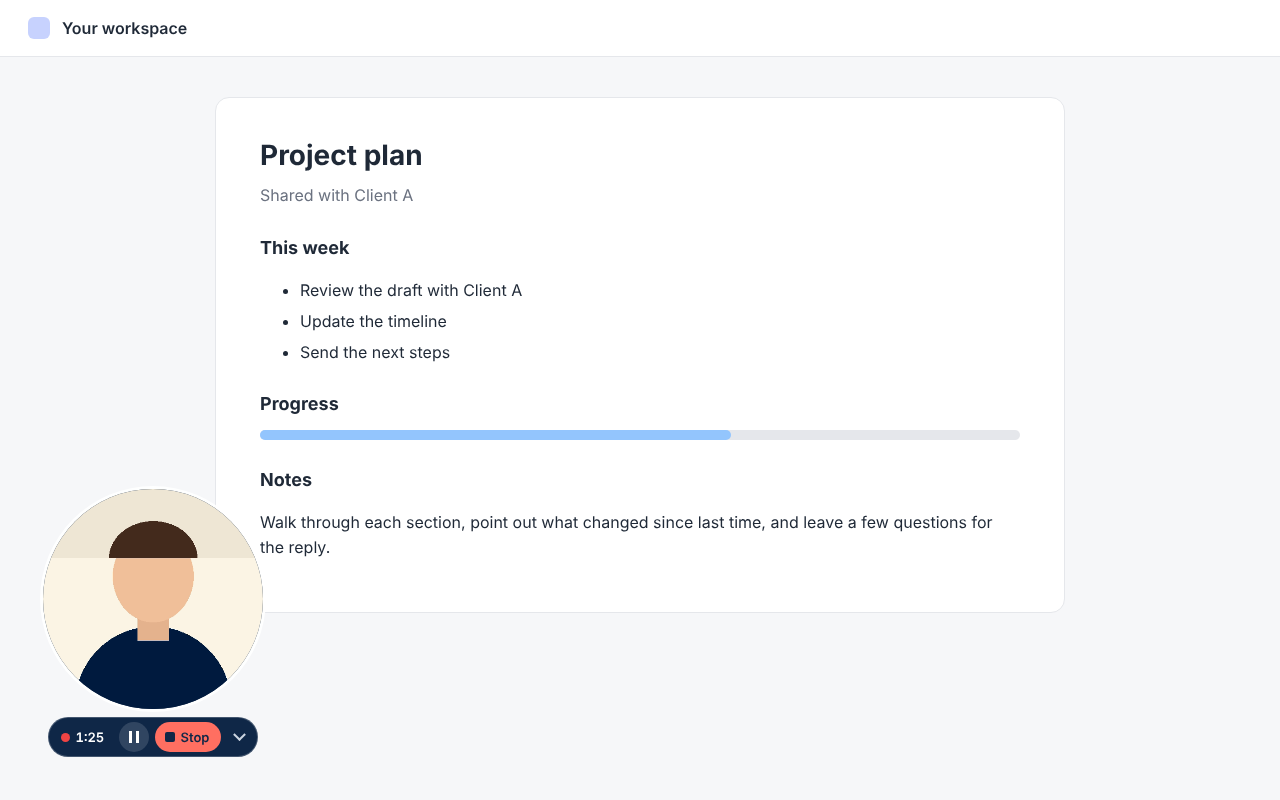
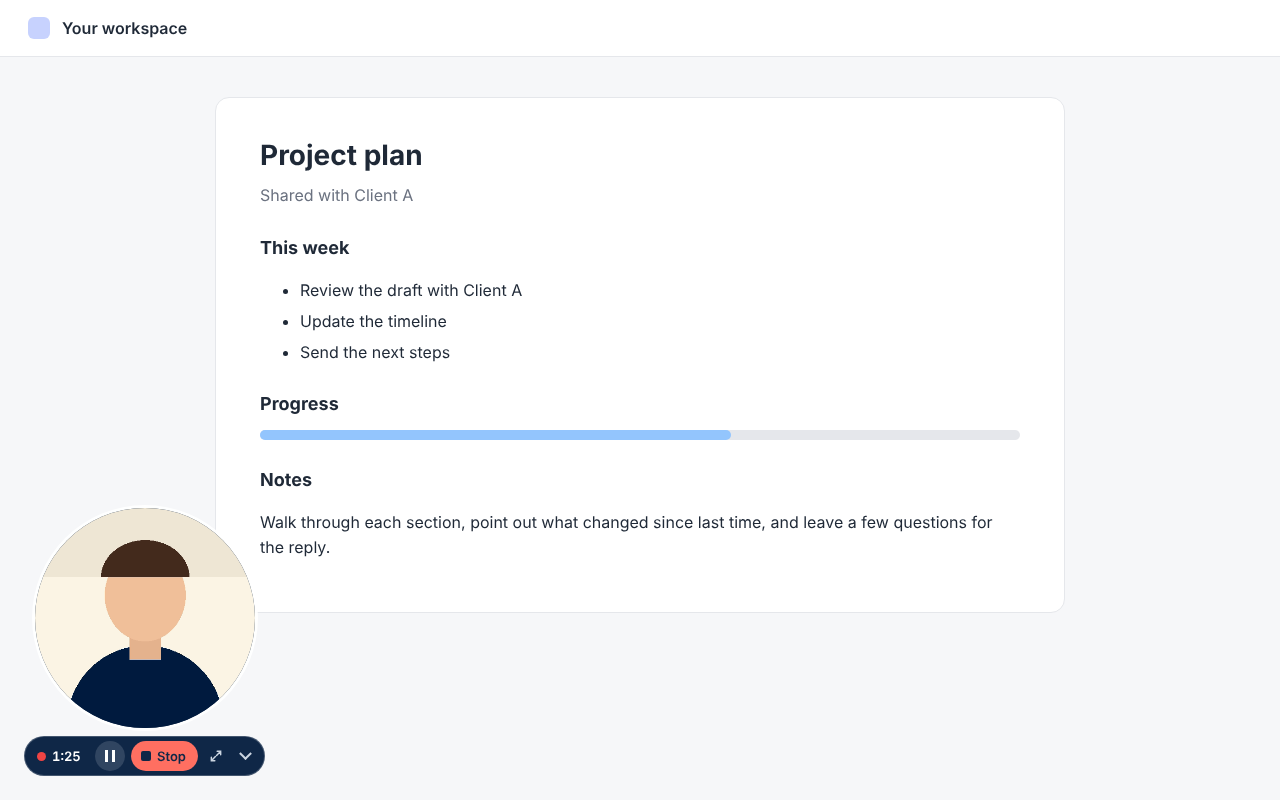
Extension 1.0.5: welcome and listing mention the size button; fresh store pictures
Claude-Session: https://claude.ai/code/session_01P4tJ6w28EeQUWxeH5NAmsb

Changed region(s): [[0.0, 0.5938, 0.2188, 0.9688]]

diff --git a/apps/extension/src/welcome.html b/apps/extension/src/welcome.html
@@ -10,7 +10,7 @@
     <main>
       <img src="icons/128.png" alt="" width="64" height="64" />
       <h1>Your camera bubble is ready</h1>
-      <p>When you record your screen with SureFrame, your camera floats in a bubble over your web pages, with Pause and Stop beside it. Drag it anywhere, and drag its corner to resize it.</p>
+      <p>When you record your screen with SureFrame, your camera floats in a bubble over your web pages, with Pause and Stop beside it. Drag it anywhere, and make it bigger or smaller with the size button on its bar.</p>
       <p>Allow your camera once here, so the bubble never has to ask on each website.</p>
       <button id="allow" type="button">Allow camera</button>
       <p id="status" class="status" role="status"></p>

diff --git a/apps/extension/STORE.md b/apps/extension/STORE.md
@@ -16,10 +16,10 @@ Your camera in a floating bubble, with Pause and Stop, on any web page while you
 Record your screen with SureFrame and keep your camera and controls with you on every tab.
 
 While you record your screen at sureframe.app, the SureFrame extension shows:
-- your camera in a round bubble over the web pages you visit, which you can drag anywhere and resize from its corner;
+- your camera in a round bubble over the web pages you visit, which you can drag anywhere and make bigger or smaller with its size dial;
 - a small bar with the time, Pause and Stop, so you can run your recording without going back to the SureFrame tab.
 
-Your camera bubble is what your viewers see in the video. Whenever the bubble can't be on screen, for example when another app is in front, SureFrame puts your camera into the video in a corner circle instead, so you're never missing from it.
+Your camera bubble is what your viewers see in the video. Whenever the bubble can't be on screen, for example when another app is in front, SureFrame puts your camera into the video in a corner circle instead, so you still appear in it.
 
 The extension itself doesn't record, save or send anything, and doesn't read or collect the pages you visit. Your screen recording is made by the SureFrame tab and shows only what you choose to share, encrypted on your device before it's uploaded, exactly as without the extension.
 
@@ -39,7 +39,7 @@ Needs a SureFrame account (sureframe.app). Works in Chrome, Edge, Brave and othe
 
 **Privacy policy URL:** https://sureframe.app/legal/privacy#extension
 
-**Homepage / support URL:** https://sureframe.app
+**Homepage URL:** https://sureframe.app · **Support URL:** https://sureframe.app/help
 
 **Images:** icon 128×128 (`icons/128.png`); screenshots 1280×800 (`store/`); small promo tile 440×280 (`store/promo-440x280.png`).
 
